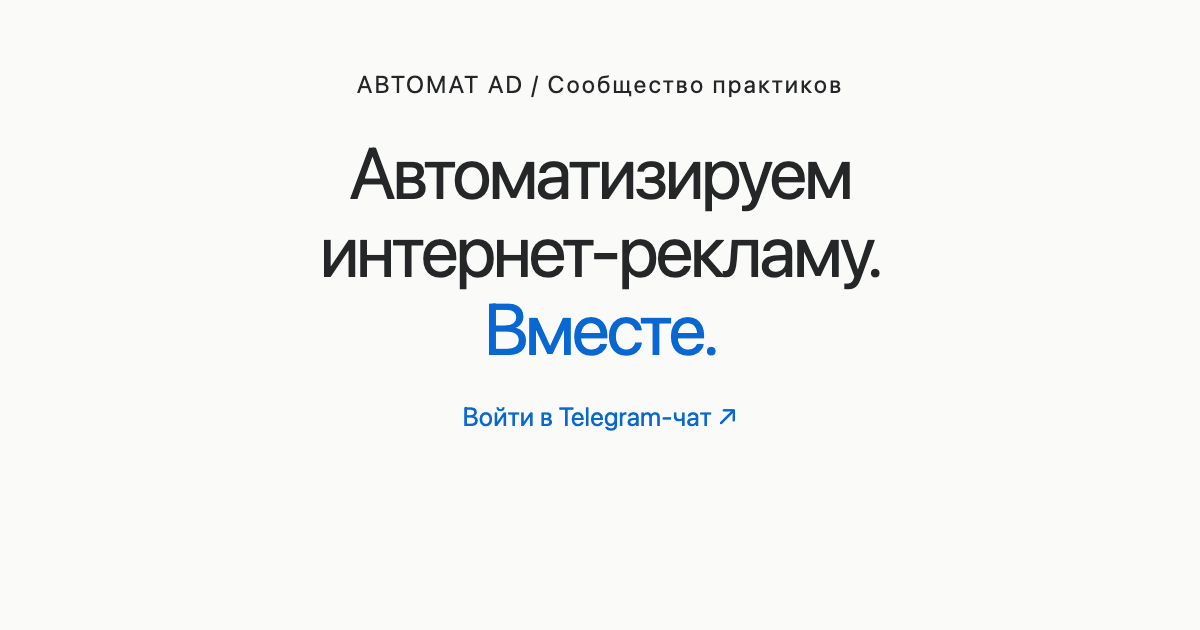
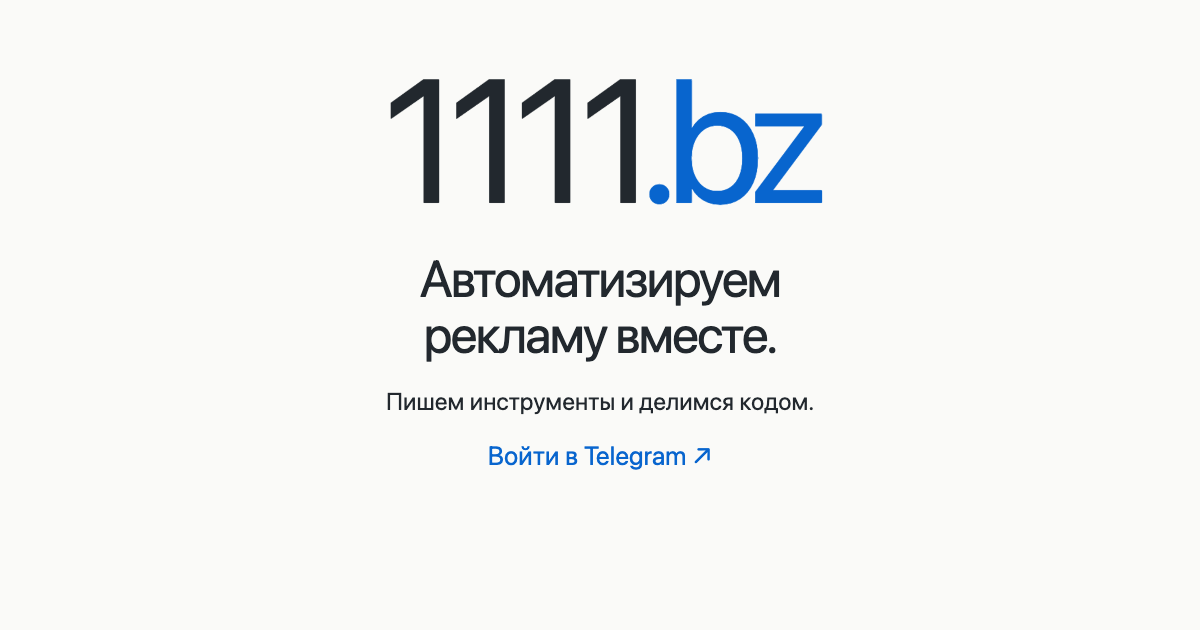
Emphasize 1111.bz, tighten copy and improve Telegram CTA

Changed region(s): [[0.2775, 0.1206, 0.7092, 0.3317], [0.2467, 0.3619, 0.74, 0.573], [0.3083, 0.6032, 0.6783, 0.754]]

diff --git a/public/style.css b/public/style.css
@@ -1,25 +1,25 @@
-:root{color-scheme:light;font-family:-apple-system,BlinkMacSystemFont,"Segoe UI",Arial,sans-serif;color:#242628;background:#fafaf8;font-synthesis:none;font-weight:400}
+:root{color-scheme:light;font-family:-apple-system,BlinkMacSystemFont,"Segoe UI",Arial,sans-serif;color:#22282e;background:#fafaf8;font-synthesis:none;font-weight:400}
 *{box-sizing:border-box}
 body{margin:0;min-width:320px}
-main{width:min(100% - 64px,1060px);min-height:100svh;margin:auto;padding:58px 0 42px;display:flex;flex-direction:column;justify-content:center;text-align:center}
+main{width:min(100% - 64px,1040px);min-height:100svh;margin:auto;padding:38px 0;display:flex;flex-direction:column;justify-content:center;text-align:center}
 p,h1,h2{margin:0;font-weight:400}
-.eyebrow{display:flex;justify-content:center;align-items:center;gap:12px;font-size:18px;line-height:1.5;color:#62676c}
-.brand{color:#292e33;letter-spacing:.075em}
-.slash{color:#a4a8ab}
-h1{margin:30px 0 24px;font-size:clamp(48px,5.3vw,76px);line-height:1.03;letter-spacing:-.055em}
-h1 span{color:#0768d3}
-.description{max-width:760px;margin:auto;color:#555b61;font-size:21px;line-height:1.55;letter-spacing:-.012em;text-wrap:pretty}
-.telegram{display:inline-flex;align-items:center;justify-content:center;gap:13px;min-height:66px;padding:17px 29px;margin-top:30px;border:1px solid #0868cd;border-radius:19px;background:linear-gradient(175deg,#1880ed,#0867d0);color:white;text-decoration:none;font-size:21px;line-height:1.4;box-shadow:0 7px 18px #0868d022,inset 0 1px 0 #ffffff36;transition:transform .16s ease,box-shadow .16s ease,background .16s ease}
-.telegram:hover{transform:translateY(-2px);background:linear-gradient(175deg,#1477e0,#065dbc);box-shadow:0 11px 25px #0868d033,inset 0 1px 0 #ffffff36}
-.telegram:active{transform:translateY(1px);box-shadow:0 3px 9px #0868d025}
-.telegram:focus-visible{outline:3px solid #242628;outline-offset:6px}
+.domain{font-size:clamp(112px,12.5vw,180px);line-height:.94;letter-spacing:-.07em;font-variant-numeric:lining-nums;white-space:nowrap;color:#202a35}
+.domain span{color:#0865ce}
+h1{margin:25px auto 20px;font-size:clamp(38px,3.7vw,53px);line-height:1.09;letter-spacing:-.04em;text-wrap:balance}
+.description{max-width:715px;margin:auto;color:#4b5661;font-size:22px;line-height:1.5;text-wrap:pretty}
+.telegram{position:relative;isolation:isolate;overflow:hidden;display:inline-flex;align-items:center;justify-content:center;gap:16px;min-height:88px;min-width:440px;padding:22px 36px;margin-top:30px;border:1px solid #1263c5;border-radius:22px;background:linear-gradient(115deg,#0868d2,#1379df 40%,#1465cf 70%,#0868d2);background-size:220% 100%;color:#fff;text-decoration:none;font-size:27px;line-height:1.4;box-shadow:0 12px 26px #0868d029,inset 0 1px 0 #ffffff55,inset 0 -2px 0 #06469a30;transition:transform .16s ease,box-shadow .16s ease;animation:blue-flow 9s ease-in-out infinite}
+.telegram::before{content:"";position:absolute;z-index:-1;inset:0;background:linear-gradient(110deg,transparent 30%,#ffffff18 49%,transparent 68%);transform:translateX(-120%);animation:soft-light 9s ease-in-out infinite;pointer-events:none}
+.telegram:hover{transform:translateY(-2px);box-shadow:0 16px 30px #0868d036,inset 0 1px 0 #ffffff65}
+.telegram:hover::before{animation-duration:3s}
+.telegram:active{transform:translateY(1px);box-shadow:0 4px 10px #0868d02b,inset 0 2px 4px #06469a22}
+.telegram:focus-visible{outline:3px solid #202a35;outline-offset:6px}
 .telegram svg{flex:none}
-.audience{margin:20px auto 0;max-width:720px;color:#686c71;font-size:18px;line-height:1.5;text-wrap:pretty}
-.sources{max-width:850px;width:100%;margin:37px auto 0;padding-top:25px;border-top:1px solid #dddfdf}
-.sources h2{font-size:18px;line-height:1.5;color:#686c71}
-.sources ul{display:flex;flex-wrap:wrap;justify-content:center;gap:10px 12px;max-width:820px;list-style:none;padding:0;margin:18px auto 0}
-.sources li{font-size:18px;line-height:1.4;border:1px solid #e3e5e5;border-radius:9px;padding:7px 13px;background:#f4f5f3;color:#454b51;white-space:nowrap}
-@media(min-width:1100px) and (min-height:850px){main{padding-top:62px;padding-bottom:54px}h1{margin-top:34px}.sources{margin-top:40px}}
-@media(max-width:600px){main{width:calc(100% - 36px);padding:34px 0;justify-content:flex-start}.eyebrow{flex-wrap:wrap;gap:3px 8px}.eyebrow .brand{width:100%}.slash{display:none}h1{font-size:clamp(33px,9.25vw,52px);margin:27px 0 22px;line-height:1.08;letter-spacing:-.045em}.description{font-size:18px;line-height:1.5;max-width:430px}.telegram{width:100%;max-width:410px;margin-top:25px;padding-inline:12px;font-size:19px;gap:10px}.audience{font-size:18px;margin-top:18px}.sources{margin-top:30px;padding-top:23px}.sources ul{gap:8px;margin-top:16px}.sources li{padding:6px 10px}}
-@media(prefers-reduced-motion:reduce){.telegram{transition:none}.telegram:hover,.telegram:active{transform:none}}
-@media(prefers-reduced-transparency:reduce){.telegram{background:#0867d0;box-shadow:none}}
+.sources{max-width:860px;width:100%;margin:38px auto 0;padding-top:24px;border-top:1px solid #d7dce1}
+.sources h2{font-size:18px;line-height:1.5;color:#515e6a}
+.sources ul{display:flex;flex-wrap:wrap;justify-content:center;gap:10px;max-width:820px;list-style:none;padding:0;margin:17px auto 0}
+.sources li{font-size:18px;line-height:1.4;border:1px solid #dce3ea;border-radius:9px;padding:8px 14px;background:#eef2f5;color:#33465a;white-space:nowrap}
+@keyframes blue-flow{0%,100%{background-position:0% 50%}50%{background-position:100% 50%}}
+@keyframes soft-light{0%,65%{transform:translateX(-120%)}90%,100%{transform:translateX(120%)}}
+@media(max-width:600px){main{width:calc(100% - 36px);padding:34px 0;justify-content:flex-start}.domain{font-size:clamp(85px,24vw,140px);letter-spacing:-.075em}h1{font-size:clamp(30px,8.3vw,44px);line-height:1.12;margin:25px 0 20px;letter-spacing:-.045em}.description{font-size:19px;line-height:1.5;max-width:430px}.telegram{width:100%;min-width:0;max-width:440px;min-height:80px;margin-top:26px;padding:20px 12px;font-size:23px;gap:12px;border-radius:19px}.telegram svg{width:27px;height:27px}.sources{margin-top:29px;padding-top:23px}.sources ul{gap:8px;margin-top:16px}.sources li{padding:7px 11px}}
+@media(prefers-reduced-motion:reduce){.telegram,.telegram::before{animation:none;transition:none}.telegram::before{display:none}.telegram:hover,.telegram:active{transform:none}}
+@media(prefers-reduced-transparency:reduce){.telegram{background:#0867d0;box-shadow:none;animation:none}.telegram::before{display:none}}

diff --git a/public/index.html b/public/index.html
@@ -4,35 +4,34 @@
   <meta charset="utf-8">
   <meta name="viewport" content="width=device-width, initial-scale=1">
   <meta name="theme-color" content="#FAFAF8">
-  <title>АВТОМАТ AD — автоматизация интернет-рекламы</title>
-  <meta name="description" content="Сообщество практиков. Вместе пишем инструменты для автоматизации Яндекс Директа, VK, Telegram и других рекламных площадок">
+  <title>1111.bz — автоматизируем рекламу вместе</title>
+  <meta name="description" content="Пишем инструменты и делимся кодом: ключевые слова, объявления, управление кампаниями и анализ результатов. Присоединяйтесь в Telegram.">
   <link rel="canonical" href="https://1111.bz/">
   <meta property="og:type" content="website">
   <meta property="og:locale" content="ru_RU">
   <meta property="og:url" content="https://1111.bz/">
-  <meta property="og:title" content="АВТОМАТ AD — автоматизация интернет-рекламы">
-  <meta property="og:description" content="Сообщество практиков. Вместе пишем инструменты для автоматизации Яндекс Директа, VK, Telegram и других рекламных площадок">
-  <meta property="og:image" content="https://1111.bz/og.png">
+  <meta property="og:title" content="1111.bz — автоматизируем рекламу вместе">
+  <meta property="og:description" content="Пишем инструменты и делимся кодом: ключевые слова, объявления, управление кампаниями и анализ результатов. Присоединяйтесь в Telegram.">
+  <meta property="og:image" content="https://1111.bz/og.png?v=20261012b">
   <meta property="og:image:width" content="1200">
   <meta property="og:image:height" content="630">
   <meta name="twitter:card" content="summary_large_image">
   <link rel="icon" href="/favicon.svg" type="image/svg+xml">
-  <link rel="stylesheet" href="/style.css?v=20261012">
+  <link rel="stylesheet" href="/style.css?v=20261012b">
 </head>
 <body>
   <main>
     <div class="intro">
-      <p class="eyebrow"><span class="brand">АВТОМАТ AD</span><span class="slash"> / </span><span>Сообщество практиков</span></p>
-      <h1>Автоматизируем<br>интернет-рекламу.<br><span>Вместе.</span></h1>
-      <p class="description">Пишем инструменты, автоматизируем рекламные кабинеты, делимся кодом и рабочими решениями. От поиска ключевых слов и создания объявлений до управления кампаниями и анализа результатов.</p>
-      <a class="telegram" href="https://t.me/avtomatad"><svg viewBox="0 0 24 24" width="25" height="25" aria-hidden="true"><path fill="currentColor" d="M21.7 3.5 18.4 20c-.2 1.2-.9 1.5-1.9.9l-5-3.7-2.4 2.3c-.3.3-.5.5-1 .5l.4-5.1 9.3-8.4c.4-.4-.1-.6-.6-.2L5.7 13.5.8 12c-1.1-.3-1.1-1.1.2-1.6L20.2 3c.9-.3 1.7.2 1.5.5Z"/></svg><span>Войти в Telegram-чат <span aria-hidden="true">↗</span></span></a>
-      <p class="audience">Для маркетологов, разработчиков, медиабайеров и предпринимателей.</p>
+      <p class="domain" aria-label="1111.bz">1111<span>.bz</span></p>
+      <h1>Автоматизируем<br>рекламу вместе.</h1>
+      <p class="description">Пишем инструменты и делимся кодом: ключевые слова, объявления, управление кампаниями и анализ результатов.</p>
+      <a class="telegram" href="https://t.me/avtomatad"><svg viewBox="0 0 24 24" width="30" height="30" aria-hidden="true"><path fill="currentColor" d="M21.7 3.5 18.4 20c-.2 1.2-.9 1.5-1.9.9l-5-3.7-2.4 2.3c-.3.3-.5.5-1 .5l.4-5.1 9.3-8.4c.4-.4-.1-.6-.6-.2L5.7 13.5.8 12c-1.1-.3-1.1-1.1.2-1.6L20.2 3c.9-.3 1.7.2 1.5.5Z"/></svg><span>Войти в Telegram <span aria-hidden="true">↗</span></span></a>
     </div>
     <section class="sources" aria-labelledby="sources-title">
-      <h2 id="sources-title">10 источников трафика в фокусе</h2>
+      <h2 id="sources-title">В фокусе</h2>
       <ul><li>Яндекс Поиск</li><li>РСЯ</li><li>VK Реклама</li><li>Telegram Ads</li><li>Telegram-каналы</li><li>Авито</li><li>Ozon</li><li>Wildberries</li><li>2ГИС</li><li>Яндекс Карты</li></ul>
     </section>
   </main>
-  <script src="/telegram.js?v=20261012" defer></script>
+  <script src="/telegram.js?v=20261012b" defer></script>
 </body>
 </html>

diff --git a/public/telegram.js b/public/telegram.js
@@ -1,19 +1,30 @@
 const link = document.querySelector('.telegram');
+let cancelPending = () => {};
+
 link.addEventListener('click', (event) => {
   if (event.button !== 0 || event.metaKey || event.ctrlKey || event.shiftKey || event.altKey) return;
   event.preventDefault();
+  cancelPending();
   let timer;
   const cancel = () => {
     clearTimeout(timer);
     window.removeEventListener('blur', cancel);
+    window.removeEventListener('pagehide', cancel);
     document.removeEventListener('visibilitychange', onVisibility);
   };
   const onVisibility = () => { if (document.hidden) cancel(); };
-  window.addEventListener('blur', cancel, { once: true });
-  document.addEventListener('visibilitychange', onVisibility);
-  timer = setTimeout(() => {
+  const fallback = () => {
     cancel();
     if (!document.hidden) window.location.assign(link.href);
-  }, 1000);
-  window.location.assign('tg://resolve?domain=avtomatad');
+  };
+  cancelPending = cancel;
+  window.addEventListener('blur', cancel, { once: true });
+  window.addEventListener('pagehide', cancel, { once: true });
+  document.addEventListener('visibilitychange', onVisibility);
+  timer = setTimeout(fallback, 1000);
+  try {
+    window.location.assign('tg://resolve?domain=avtomatad');
+  } catch {
+    fallback();
+  }
 });

diff --git a/docs/QA.md b/docs/QA.md
@@ -27,3 +27,29 @@ index.html, style.css, telegram.js, favicon.svg, og.png.
 Нажатие в симуляторе не подтверждает открытие нативного Telegram.
 Данные не отправлялись, аналитика и формы отсутствуют.
 Артефакты хранятся локально в игнорируемой папке qa-artifacts/.
+
+## Вторая версия — крупный домен и короткий текст
+
+Исходная версия: 542810c, чистое рабочее дерево. Изменены и проверены 5 из 5
+файлов public/, добавлены tests/telegram.test.cjs. Полный список public/ указан
+выше. Область — текст, композиция, CTA, доступность, Telegram-переход и метаданные.
+
+Подтверждённые дефекты прежнего telegram.js (все исправлены):
+- AD-01: каждый повторный клик оставлял свой таймер; тест тройного клика
+  обнаружил несколько отложенных HTTPS-переходов. Теперь предыдущий отменяется.
+- AD-02: pagehide не отменял таймер. Теперь уход со страницы очищает обработчики.
+- AD-03: исключение при блокировке внешнего протокола оставалось необработанным.
+  Теперь выполняется немедленный HTTPS fallback с отменой отложенного.
+
+На исходном файле 5 из 8 тестов успешны, 3 воспроизводят перечисленные дефекты;
+на исправленном — 8 из 8. Проверены также blur, hidden, видимая вкладка,
+Cmd/Ctrl/Shift/Alt-click и средняя кнопка мыши.
+
+Chromium 151: 1440×900, 390×844, 360×640 — нет ошибок страницы, консоли,
+сети и горизонтального переполнения. После финального переноса заголовка
+перепроверены 1440, 360 и 320px; CTA видна на первом экране во всех трёх случаях.
+1440×900: высота документа 900px, домен 180px, кнопка 440×88px.
+320px: домен 85px, кнопка 284×80px. Скриншоты просмотрены.
+Tab-фокус, hover, animationName и отключение всех эффектов при reduced motion
+проверены браузером. Линтер русского текста — без механических замечаний.
+Модель продаж и конверсия не измерялись. Нативный Telegram не установлен.

diff --git a/docs/DESIGN.md b/docs/DESIGN.md
@@ -19,3 +19,16 @@ HTML/CSS/JS без зависимостей, системный шрифт, ве
 На узком экране список площадок уходит ниже первого экрана; CTA остаётся выше.
 Ссылка сохраняет HTTPS href при отключённом JS. Reduced motion отключает движение,
 reduced transparency оставляет непрозрачную кнопку. Клавиатурный фокус явный.
+
+## Редактура 12.10.2026, вторая версия
+
+По прямой просьбе владельца домен 1111.bz стал главным визуальным элементом:
+180px на десктопе. Убраны АВТОМАТ AD, «Сообщество практиков» и строка аудитории.
+Суть: «Автоматизируем рекламу вместе». Короткое объяснение перечисляет задачи,
+а не обещает готовые интеграции. Десять исходных площадок сохранены.
+Применены gary → sales → anton: одно действие, конкретные задачи, короткий
+естественный текст без новых обещаний. Использованы три фрагмента sales-корпуса;
+их коммерческие условия и истории не переносятся на сайт.
+Кнопка выросла с 66 до 88px на десктопе и до 80px на мобильном, ширина 440px
+на десктопе. Синее переливание и локальный блик — по прямому запросу владельца;
+reduced motion и reduced transparency полностью их отключают.

diff --git a/README.md b/README.md
@@ -1,4 +1,4 @@
-# АВТОМАТ AD
+# 1111.bz
 
 Одноэкранный сайт сообщества практиков автоматизации интернет-рекламы.
 Основное действие: https://t.me/avtomatad. Публичный адрес: https://1111.bz/.
@@ -7,7 +7,7 @@
 Локальный запуск: `python3 -m http.server 8111 --directory public`.
 
 Референс композиции: Mectrics из https://lll.bz/?site=mectrics.
-Текст предоставлен владельцем. Шрифт системный, начертание 400, минимум 18px.
+Текст предоставлен владельцем и сокращён по его запросу. Шрифт системный, начертание 400, минимум 18px.
 Обычная ссылка работает без JavaScript; с JavaScript сначала открывается Telegram,
 при отсутствии перехода в приложение через секунду срабатывает HTTPS fallback.
 Ctrl/Cmd-click сохраняет стандартное поведение браузера.
@@ -15,3 +15,5 @@ Ctrl/Cmd-click сохраняет стандартное поведение бр
 Публикация: копирование `public/` в отдельный статический релиз и переключение
 корня Caddy для 1111.bz. Старое приложение магазина сохраняется отдельно.
 Не публиковать конфигурацию сервера, ключи, данные магазина и QA-артефакты.
+
+Проверка логики перехода: `node --test tests/telegram.test.cjs`.
